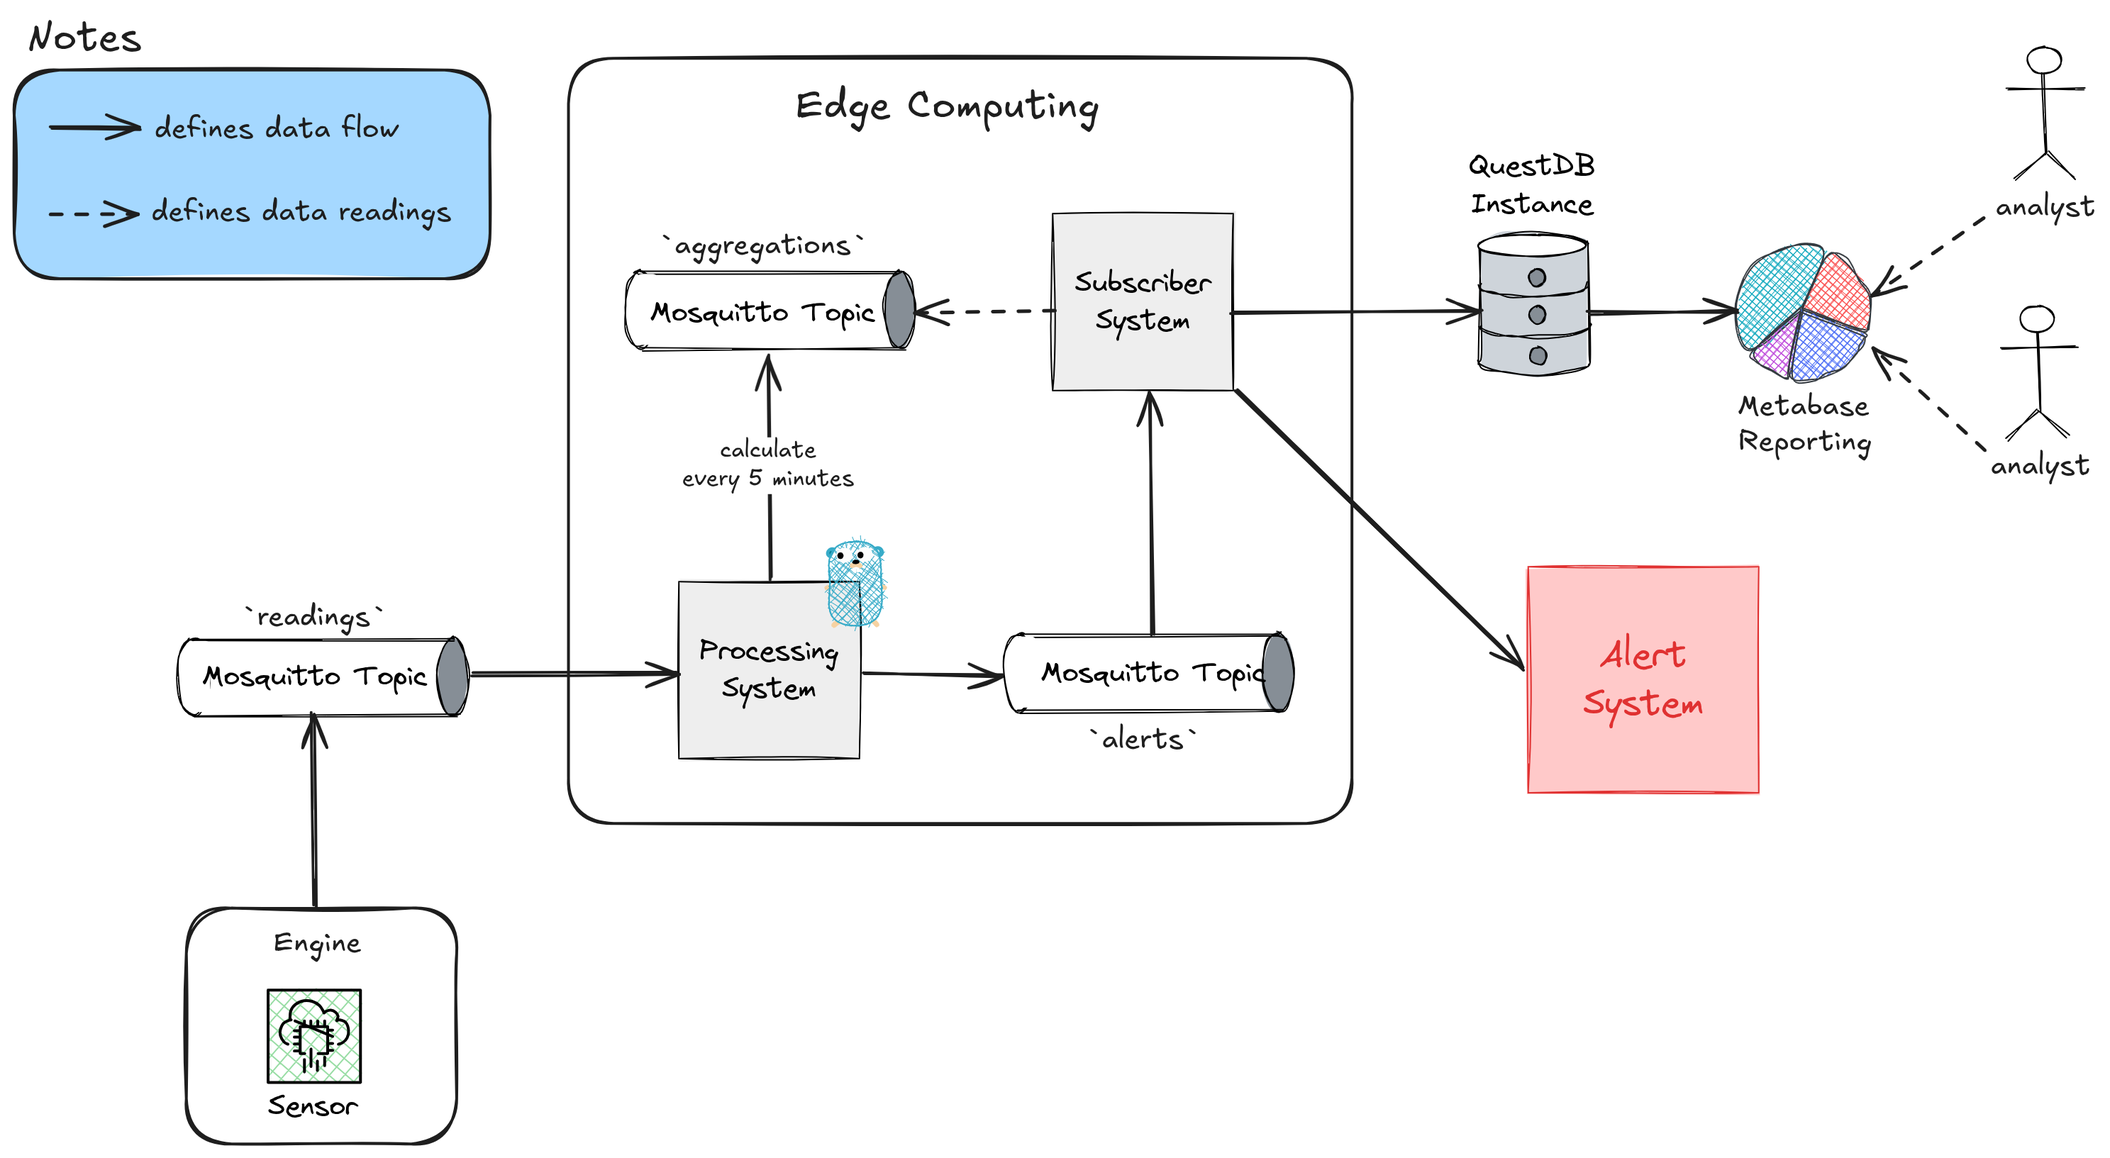
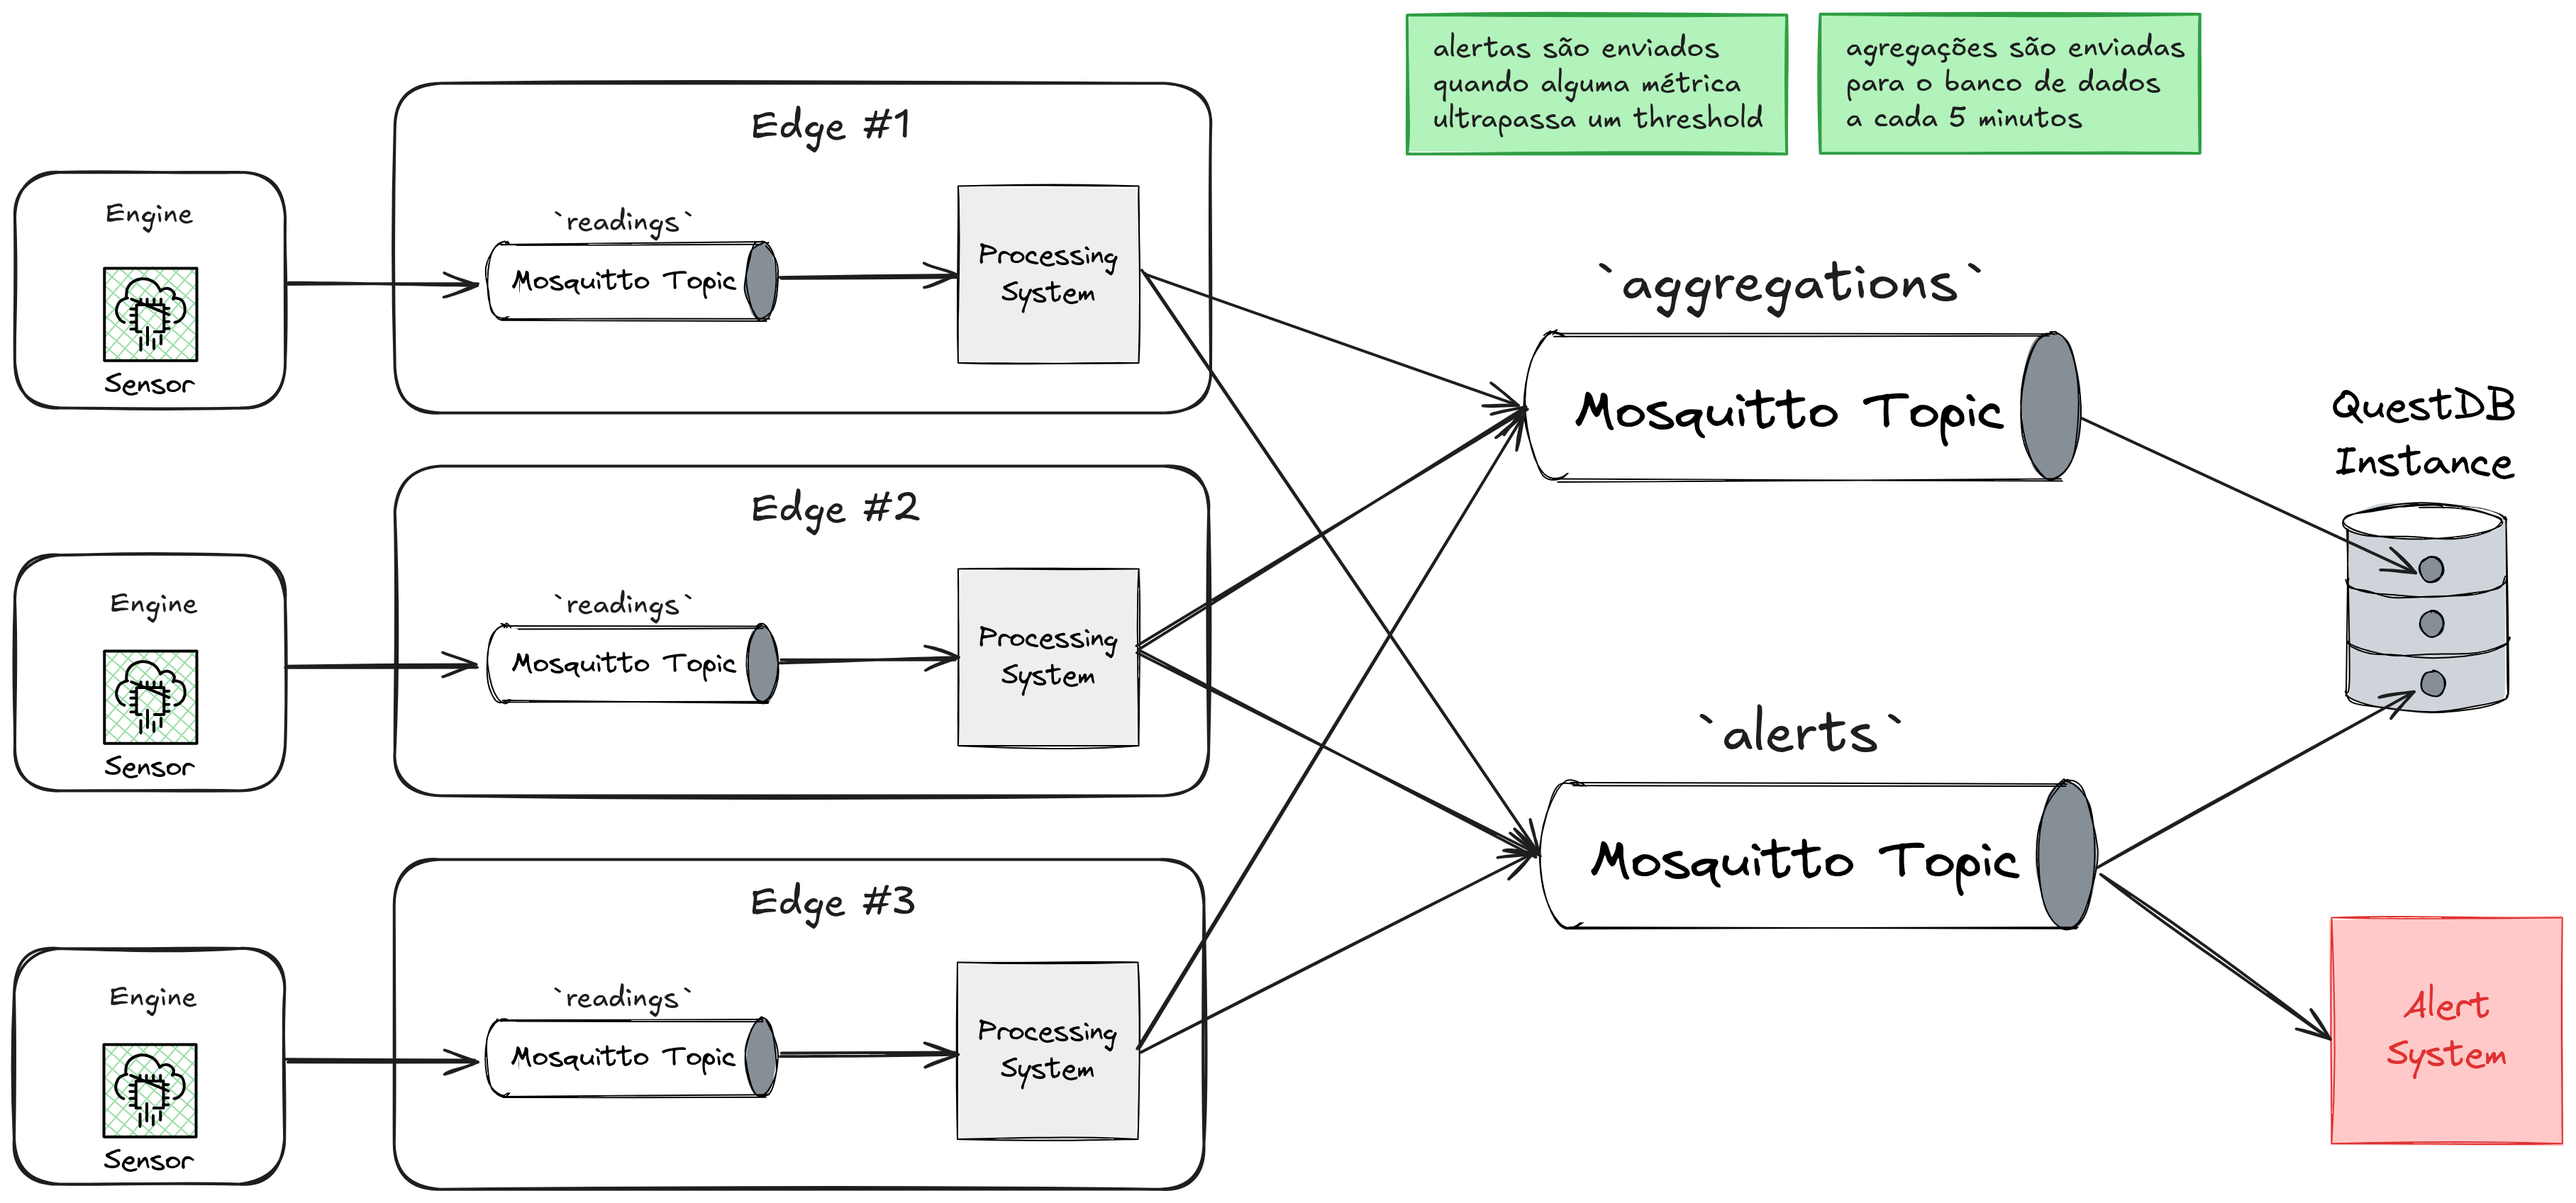
feat: setup telegraf to read events

diff --git a/processing/infra.py b/processing/infra.py
@@ -1,0 +1,27 @@
+from os import getenv
+
+from influxdb_client import InfluxDBClient, Point
+from influxdb_client.client.write_api import SYNCHRONOUS
+
+# Config (de env vars)
+INFLUX_URL = getenv('INFLUX_URL', 'http://influxdb:8086')
+INFLUX_TOKEN = getenv('INFLUX_TOKEN', 'ObhIcDp2oFAIXr0YZJJH8bEYntIRaLBQ10bNuz0h-9CRs-HBW6VpRo0GZUh0m9fUNQmCd7Eb_ueIPysowj2jKA==')  # Gere no InfluxUI
+INFLUX_ORG = getenv('INFLUX_ORG', 'yourorg')
+INFLUX_BUCKET = getenv('INFLUX_BUCKET', 'sensor_data')
+
+client = InfluxDBClient(url=INFLUX_URL, token=INFLUX_TOKEN, org=INFLUX_ORG)
+write_api = client.write_api(write_options=SYNCHRONOUS)
+
+def save_aggregated_to_influx(aggregated: dict):
+    point = Point("aggregations") \
+        .tag("device_id", aggregated["device_id"]) \
+        .field("avg_rpm", aggregated["avg_rpm"]) \
+        .field("avg_temperature", aggregated["avg_temperature"]) \
+        .field("vib_avg_rms", aggregated["vibration"]["avg_rms"]) \
+        .field("vib_avg_peak_bearing", aggregated["vibration"]["avg_peak_bearing"]) \
+        .field("vib_avg_bearing_freq", aggregated["vibration"]["avg_bearing_freq"]) \
+        .field("curr_avg_rms", aggregated["current"]["avg_rms"]) \
+        .field("alerts_bearing_count", aggregated["alerts_summary"].get("bearing_wear", {}).get("count", 0)) \
+        .time(aggregated["period_start"])  # Timestamp do período
+    write_api.write(bucket=INFLUX_BUCKET, record=point)
+    print("Agregado salvo no InfluxDB")

diff --git a/processing/app.py b/processing/app.py
@@ -1,4 +1,3 @@
-from collections import defaultdict
 from json import loads
 from datetime import datetime
 from time import time
@@ -18,7 +17,7 @@ class MotorMonitor:
         self.MQTT_BROKER = "mqtt"
         self.MQTT_PORT = 1883
         self.MQTT_TOPIC = "readings"
-        self.MQTT_TOPIC_OUT = "aggregations"
+        self.MQTT_TOPIC_OUT = "sensors/aggregations"
         self.AGGREGATION_INTERVAL = 10
         self.buffer = []
         self.previous_temp = None
@@ -61,7 +60,9 @@ class MotorMonitor:
         alerts = detect_alerts(output, self.engine, previous_temp=self.previous_temp)
         if alerts:
             print(f"Alertas detectados: {alerts}")
-            client.publish("alerts/processed", event_to_json(alerts))
+            for alert in alerts:
+                alert.pop("details")
+                client.publish("sensors/alerts", event_to_json(alert))
         else:
             print("Nenhum alerta detectado.")
         self.previous_temp = output["temperature"]
